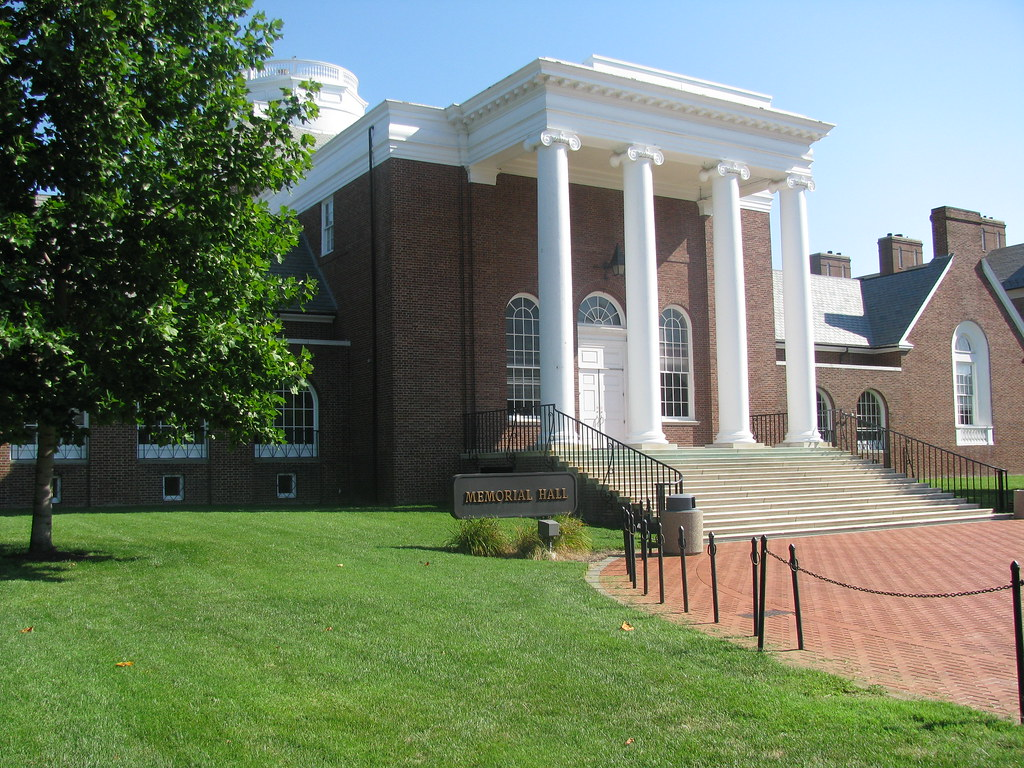
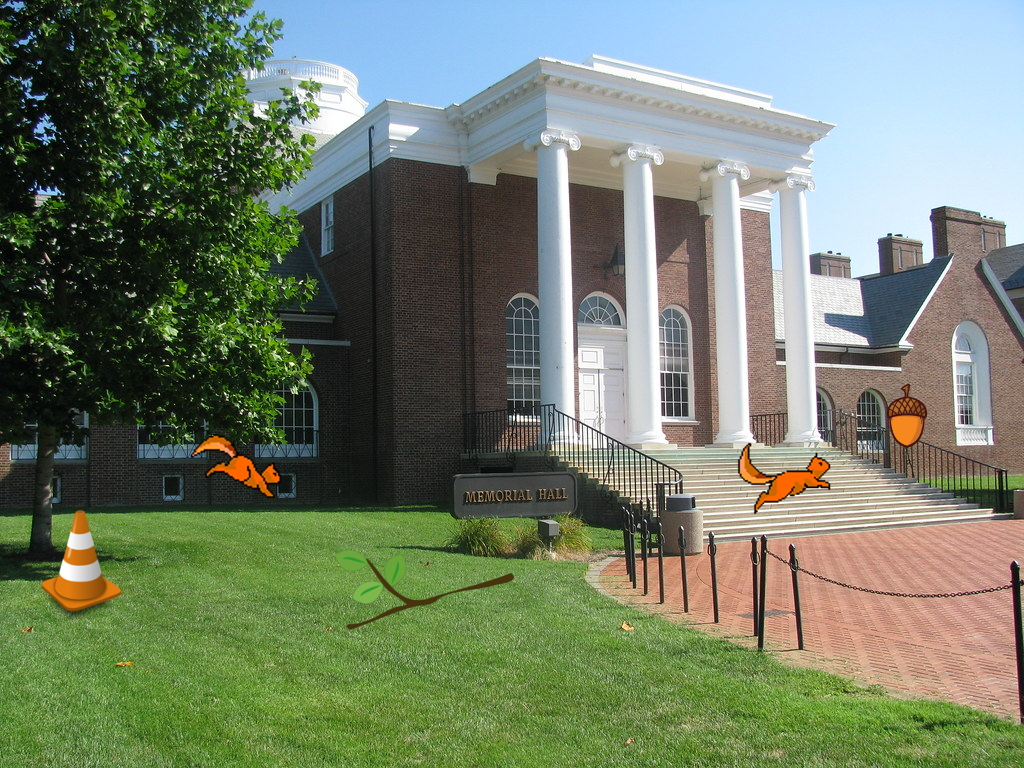
added new images/gifs

diff --git a/index.html b/index.html
@@ -76,7 +76,7 @@
                     Left Tree
                 </div>
                 <div class="col-6" id="bg">
-                    <img src="style/images/squirrel.gif" class="squirrel" onclick="removeHeart()">
+                    <img src="style/images/squirrel-left.gif" class="squirrel" onclick="removeHeart()">
                 </div>
                 <div class="col" id="tree">
                     Right Tree
